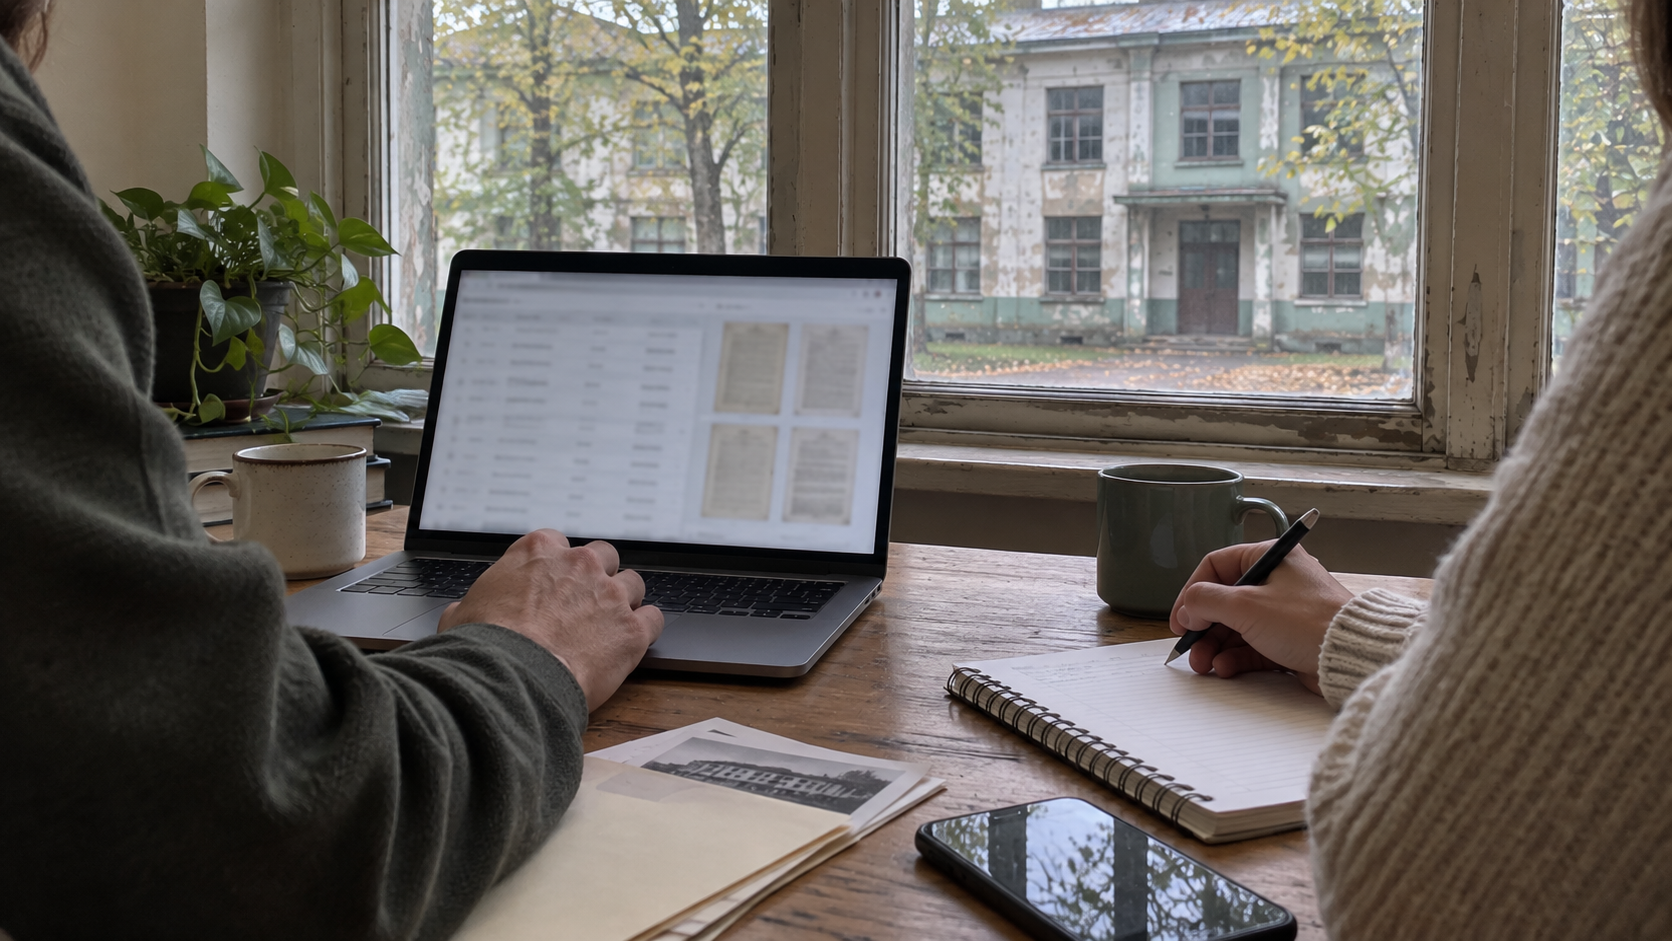
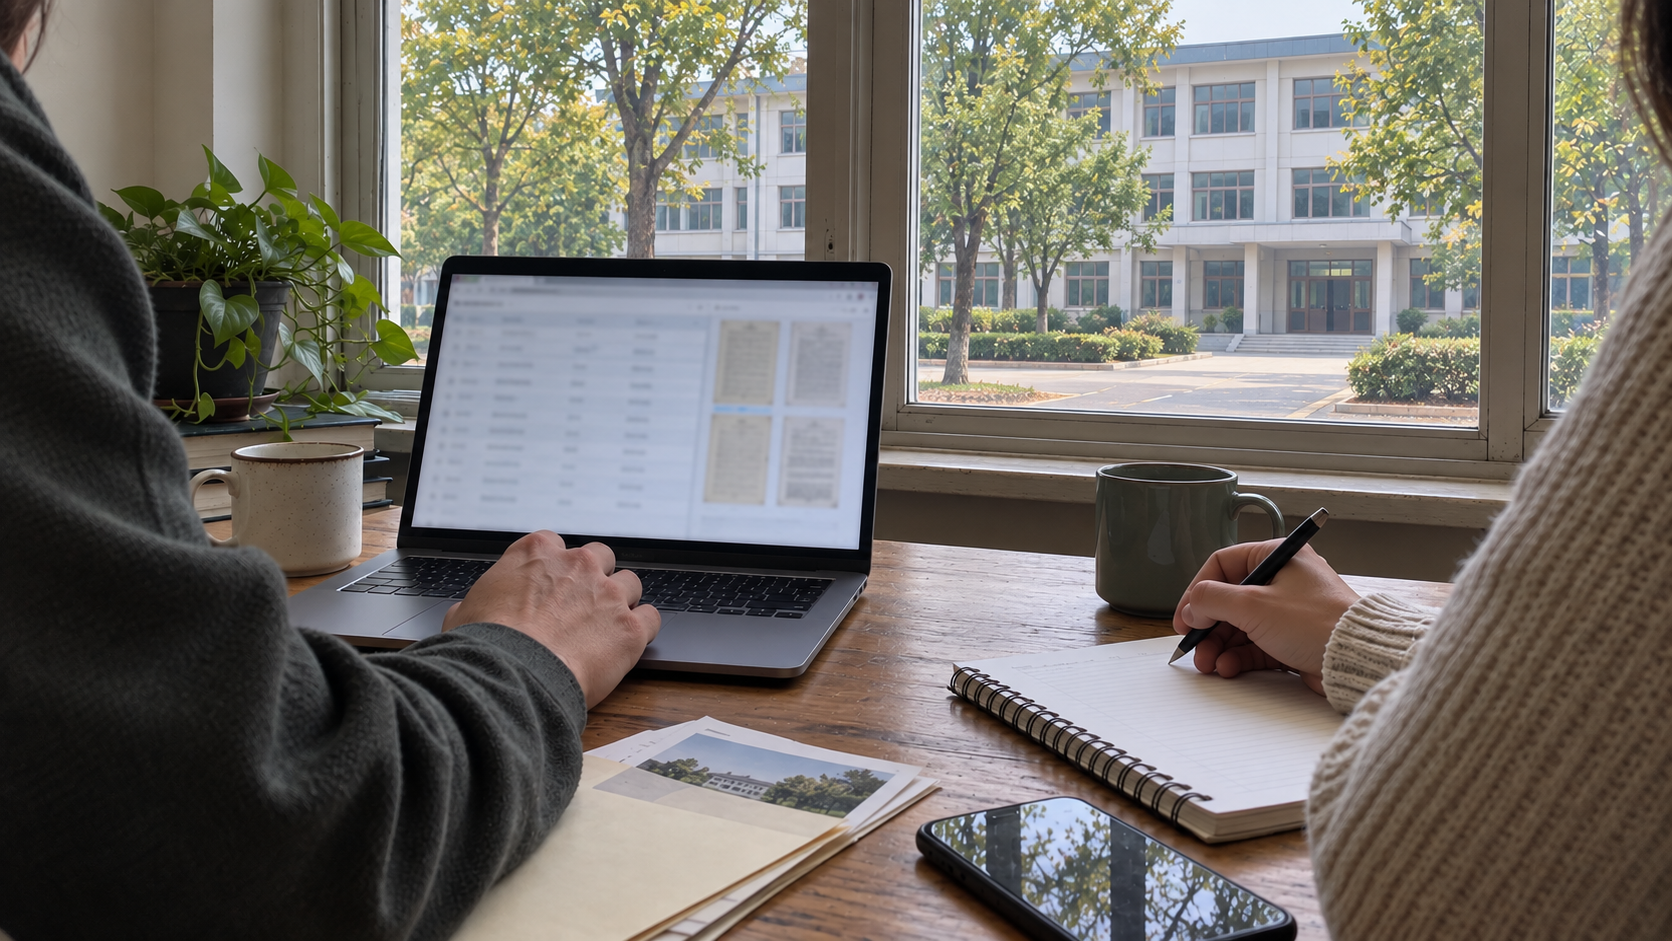
fix(UX-0003D): refine three reviewed images

diff --git a/docs/reviews/UX-0003D-image-manifest.md b/docs/reviews/UX-0003D-image-manifest.md
@@ -8,14 +8,14 @@
 | --- | --- | --- |
 | `IMG_A4_T09_001.png` | 消防栓旁低机位，主角跌坐后看向熟悉走廊；腿部只以裤腿边缘暗示疼痛。 | 可用。消防栓、墙裙、窗与走廊连续；无血迹或可确认伤情。 |
 | `IMG_A4_T09_002.png` | 消防栓旁手持手机查看新邮件；红点和邮件列表清晰，文字留白供叠加。 | 可用。手机与消防栓是明确热点；屏幕文字不可读。 |
-| `IMG_A4_T09_003.png` | 消防栓旁手持褐色笔记末页，塑料包装与透明胶入镜。 | 可用。笔记页留有叠字区域，材质和消防栓位置明确。 |
+| `IMG_A4_T09_003.png` | 消防栓旁手持褐色笔记末页，塑料包装与透明胶入镜。 | 主审修正后可用。四边与四角自然完整、无黑边或透明状渲染瑕疵；笔记页留有叠字区域，消防栓位置连续。 |
 | `IMG_A4_T09_004.png` | 从走廊向外门行走，消防栓退至近景侧边，门外是清晨光线。 | 可用。走廊、消防栓与门形成明确行进方向；无其他人物。 |
 | `IMG_A4_T09_005.png` | 门槛的低机位失焦瞬间，走廊背景变模糊，去向保持未知。 | 可用。只表达意识中断，不含尸体、抓捕、去处或结论。 |
-| `IMG_A4_T10_001.png` | 两位成年朋友在桌边查公开资料，屏幕内容模糊，窗外可见旧校舍。 | 可用。人物仅手臂/肩部；资料没有可辨机构结论，学校环境呼应旧址。 |
+| `IMG_A4_T10_001.png` | 两位成年朋友在桌边查公开资料，屏幕内容模糊，窗外是共同读过的正常使用中县城初中。 | 主审修正后可用。窗外校舍整洁、在用且无校牌/标语，避免与启明旧址混淆；资料不可辨、人物无清晰面部。 |
 | `IMG_A4_T10_002.png` | 两张旧纸片并列，成年人的手从两侧入镜，纸面留字区。 | 可用。两张纸片可辨，字迹仅为模糊痕迹，适合叠加准确文字。 |
 | `IMG_A4_T10_003.png` | 县城咖啡馆木桌上的三杯奶茶，双方手部与手机辅助交代共同聚会。 | 可用。三杯完整且居中，环境自然克制；杯身无品牌文字。 |
 | `IMG_A4_T10_004.png` | 同类咖啡馆桌面数月后，一只杯子、手机聊天界面和翻页日历。 | 可用。手机和日历清晰可作为热点；聊天内容不可读，未出现监控暗示。 |
-| `IMG_A4_T10_005.png` | 日常房间桌上的笔记本电脑，收件箱中一封邮件行被选中。 | 可用。高亮邮件行是清楚的点击焦点；发件人、主题和品牌文字均不可读。 |
+| `IMG_A4_T10_005.png` | 日常房间桌上的笔记本电脑，收件箱中一封邮件行被选中，窗外为近处普通住区。 | 主审修正后可用。窗景为模糊的县城住区与树木，无欧式白楼、山城或明显地域线索；高亮邮件行清楚，文字不可读。 |
 
 ## 最终提示词
 
@@ -26,8 +26,7 @@
 > Standalone 16:9 landscape photorealistic-natural documentary smartphone photograph, first-person scene. Match the attached abandoned school corridor reference precisely: peeling pale upper plaster, muted gray-green lower wall, same cracked dark window, same rusty red circular fire-hose cabinet below window, cold dawn daylight. In the foreground an adult's slightly trembling hand holds an older smartphone angled toward the viewer beside the fire-hose cabinet; on screen only a generic blurred email interface with a small red notification dot, all lettering intentionally unreadable and blank for later text overlay. A little of the adult's trouser-covered leg near frame edge, no injury detail. Natural handheld perspective, realistic phone-camera grain, restrained low saturation, extremely realistic. No legible text, no extra people, no gore, no evidence additions.
 
 ### IMG_A4_T09_003.png
-> Standalone 16:9 landscape photorealistic-natural smartphone close-up, first-person POV. An adult's hands hold open the last page of the same small worn brown notebook shown in the attached reference; preserve its faded tan paper, soft rounded corners, stitched spine and age. The notebook rests over a clear plastic wrapping and a little transparent tape near the same old red circular fire-hose cabinet and pale peeling, gray-green school corridor from the other attached reference. The page is mostly blank with only faint indistinct pencil marks, no legible writing, reserved for exact text overlay. Dawn window light, restrained cool low-saturation palette, candid handheld phone photograph, extremely realistic textures and scale. No readable words, no new clues, no people faces, no horror effects.
-
+> Create a new standalone 16:9 landscape photorealistic-natural smartphone photograph, first-person close-up. Reference image one is the exact abandoned school corridor and red circular fire-hose cabinet to preserve; reference image two is the same small aged brown notebook to preserve. Show adult hands holding that notebook open beside the same fire-hose cabinet in the same corridor: pale peeling upper plaster, muted gray-green lower wall, dark window, cold dawn light and leaf-strewn floor. Keep notebook, hands, wrapping plastic and transparent tape fully inside the frame with ordinary clean photographic edges; every corner and all four edges must be naturally rendered, continuous and opaque, with no black, transparent, cutout, torn, glitch, chromatic-fringe or color-noise artifacts. The page is mostly blank for later exact text overlay. Low-saturation, handheld phone-camera grain, documentary realism. No readable writing, no new clues, no faces, no horror effects.
 ### IMG_A4_T09_004.png
 > Standalone 16:9 landscape extremely realistic low-saturation smartphone photograph, first-person viewpoint inside the exact abandoned school corridor from the attached fire-hose reference. Camera at an adult's uneven walking height, subtly tilted as if limping toward the far exit. Keep the same peeling pale upper plaster, muted gray-green lower wall paint, dark cracked windows, debris and wet-looking worn floor; the distinctive rusty red circular fire-hose cabinet is now behind the viewer but partly visible at the near edge of frame. At the far end, an open exterior doorway shows soft spring morning light and a modest real school entrance, no identifiable location. Only an indistinct trouser edge suggests the injured adult's right leg, no wound. Handheld phone photo, natural dawn exposure, realistic textures, subdued colors. No other people, no text, no visual effects.
 
@@ -35,8 +34,7 @@
 > Standalone 16:9 landscape photorealistic-natural phone photograph depicting an ambiguous final moment, from a low first-person angle at the threshold of the same abandoned school corridor shown in the attached reference. The worn doorway threshold and a small wedge of pale morning light remain in focus at lower center while the interior corridor behind falls naturally out of focus and toward deep shadow, as if the phone camera has lost focus during a sudden faint. A dark trousered shoe may be partly visible near the threshold, but no body or fall is depicted. Keep restrained muted gray-green and brown colors, handheld documentary realism, slight optical motion blur only at the frame edges. The image must communicate only loss of consciousness, with no result or destination inferable. No people, no injury, no capture, no body, no text, no supernatural black fog.
 
 ### IMG_A4_T10_001.png
-> Standalone 16:9 landscape photorealistic-natural documentary smartphone photograph, contemporary quiet indoor scene. Two adult friends sit at a modest table researching public records together; only their hands, sleeves and partial shoulders are visible, no faces. One hand rests near a laptop showing a generic blurred public-record page with indistinct rows and a few neutral document thumbnails; no legible words, logos, official seals or invented findings. Through the window behind the table, an aging ordinary school building appears at a distance in soft daylight, pale weathered facade and muted green trim subtly recalling the abandoned school in the attached reference without making it look fantastical. Table has a plain notebook and restrained everyday items. Low-saturation colors, natural window light, handheld smartphone perspective, extremely realistic, candid and matter-of-fact. No readable text, no dramatic implication, no named agency, no extra evidence.
-
+> Create a new standalone 16:9 landscape photorealistic-natural smartphone photograph. Use the attached image only as a guide for the interior table layout, laptop placement, two adult friends' hands/sleeves, natural daylight and candid phone-photo realism. Through the window, show an ordinary active middle school in a Chinese county town, with a clean maintained low-rise facade, intact windows, a normal entrance and leafy trees; it should look currently in use and familiar, clearly distinct from an abandoned building. Show no students or people outside. The school facade must have absolutely no signs, banners, flags, mottos, characters, letters, numbers, logos or plaques anywhere; use plain blank architectural surfaces. No decay, peeling walls, broken glass, debris, dark corridors or fire equipment. On the laptop show an unreadable generic public-record page, with no words, logos, official seals or invented findings. Restrained low-saturation palette, realistic phone-camera grain and natural scale. No legible text anywhere in the picture.
 ### IMG_A4_T10_002.png
 > Standalone 16:9 landscape photorealistic-natural close smartphone photograph from above a present-day table. Two separate small aged handwritten paper slips lie side by side, one warm off-white and one faded tan, visibly old and handled; reserve clear, mostly blank central areas on both slips for later exact text overlay, with only faint illegible marks. The papers resemble the small scraps seen in the attached archive and broadcast-room references, but are now together on a clean everyday tabletop. Two adult friends' hands enter gently from opposite sides, not pointing dramatically. Soft natural window light, low-saturation muted colors, realistic paper fibers and creases, documentary phone-camera quality. No readable text, no extra artifacts, no symbols, no faces.
 
@@ -47,4 +45,4 @@
 > Standalone 16:9 landscape extremely realistic low-saturation smartphone photograph, present-day everyday table several months after the attached cafe scene. Similar modest neighborhood cafe wooden tabletop and soft window daylight for visual continuity, but now a single ordinary cup sits off to one side; an adult hand holds a phone showing a generic short chat interface with a few soft blurred message bubbles, absolutely no legible text, names or icons. A small desk calendar beside it has several pages turned, dates indistinct and unreadable. Keep open negative space between phone and calendar for interaction hotspots. View from seated first person, subdued neutral color, natural grain, candid documentary realism. Quiet ordinary passage of time, no surveillance imagery, no logos, no faces, no dramatic effect.
 
 ### IMG_A4_T10_005.png
-> Standalone 16:9 landscape photorealistic-natural smartphone photograph of a quiet present-day room in a small Chinese county town. First-person view at the same modest wooden table and near a softly lit window as the previous scenes. An open laptop sits on the table, screen showing a plain generic email inbox: a neutral list with one newly received message row visually distinct near the center, all sender names, subject lines, timestamps, logos and other lettering intentionally blurred and unreadable for exact frontend text overlay. No person is visible beyond a relaxed hand resting near the trackpad. Soft daylight, low-saturation gray-brown palette, real consumer laptop and natural screen reflections, handheld phone camera documentary realism. Keep the highlighted email row large and uncluttered as a clear clickable focal area. Restrained, quiet composition, no visible sender entity, no insinuated surveillance, no invented findings, no readable text.
+> Create a new standalone 16:9 landscape photorealistic-natural smartphone photograph using the attached image only for the laptop, table and quiet indoor composition. Keep the open laptop inbox with one message row highlighted as the central clickable focal area; all interface text, sender, subject, logos and timestamps must remain soft and unreadable for frontend overlay. Replace the entire window view with a neutral close view of an ordinary Chinese county-town residential neighborhood: a nearby modest apartment facade and leafy trees in soft daylight, no distinctive landmarks, no European architecture, no white alpine buildings, no mountains, no steep hillside, no resort or tourist city cues. Alternatively, frame the window mostly on soft greenery and indistinct nearby walls. Low-saturation gray-brown palette, natural screen reflections, realistic everyday room and handheld phone-camera photograph. No readable text, no named sender, no dramatic implication or surveillance cues.
